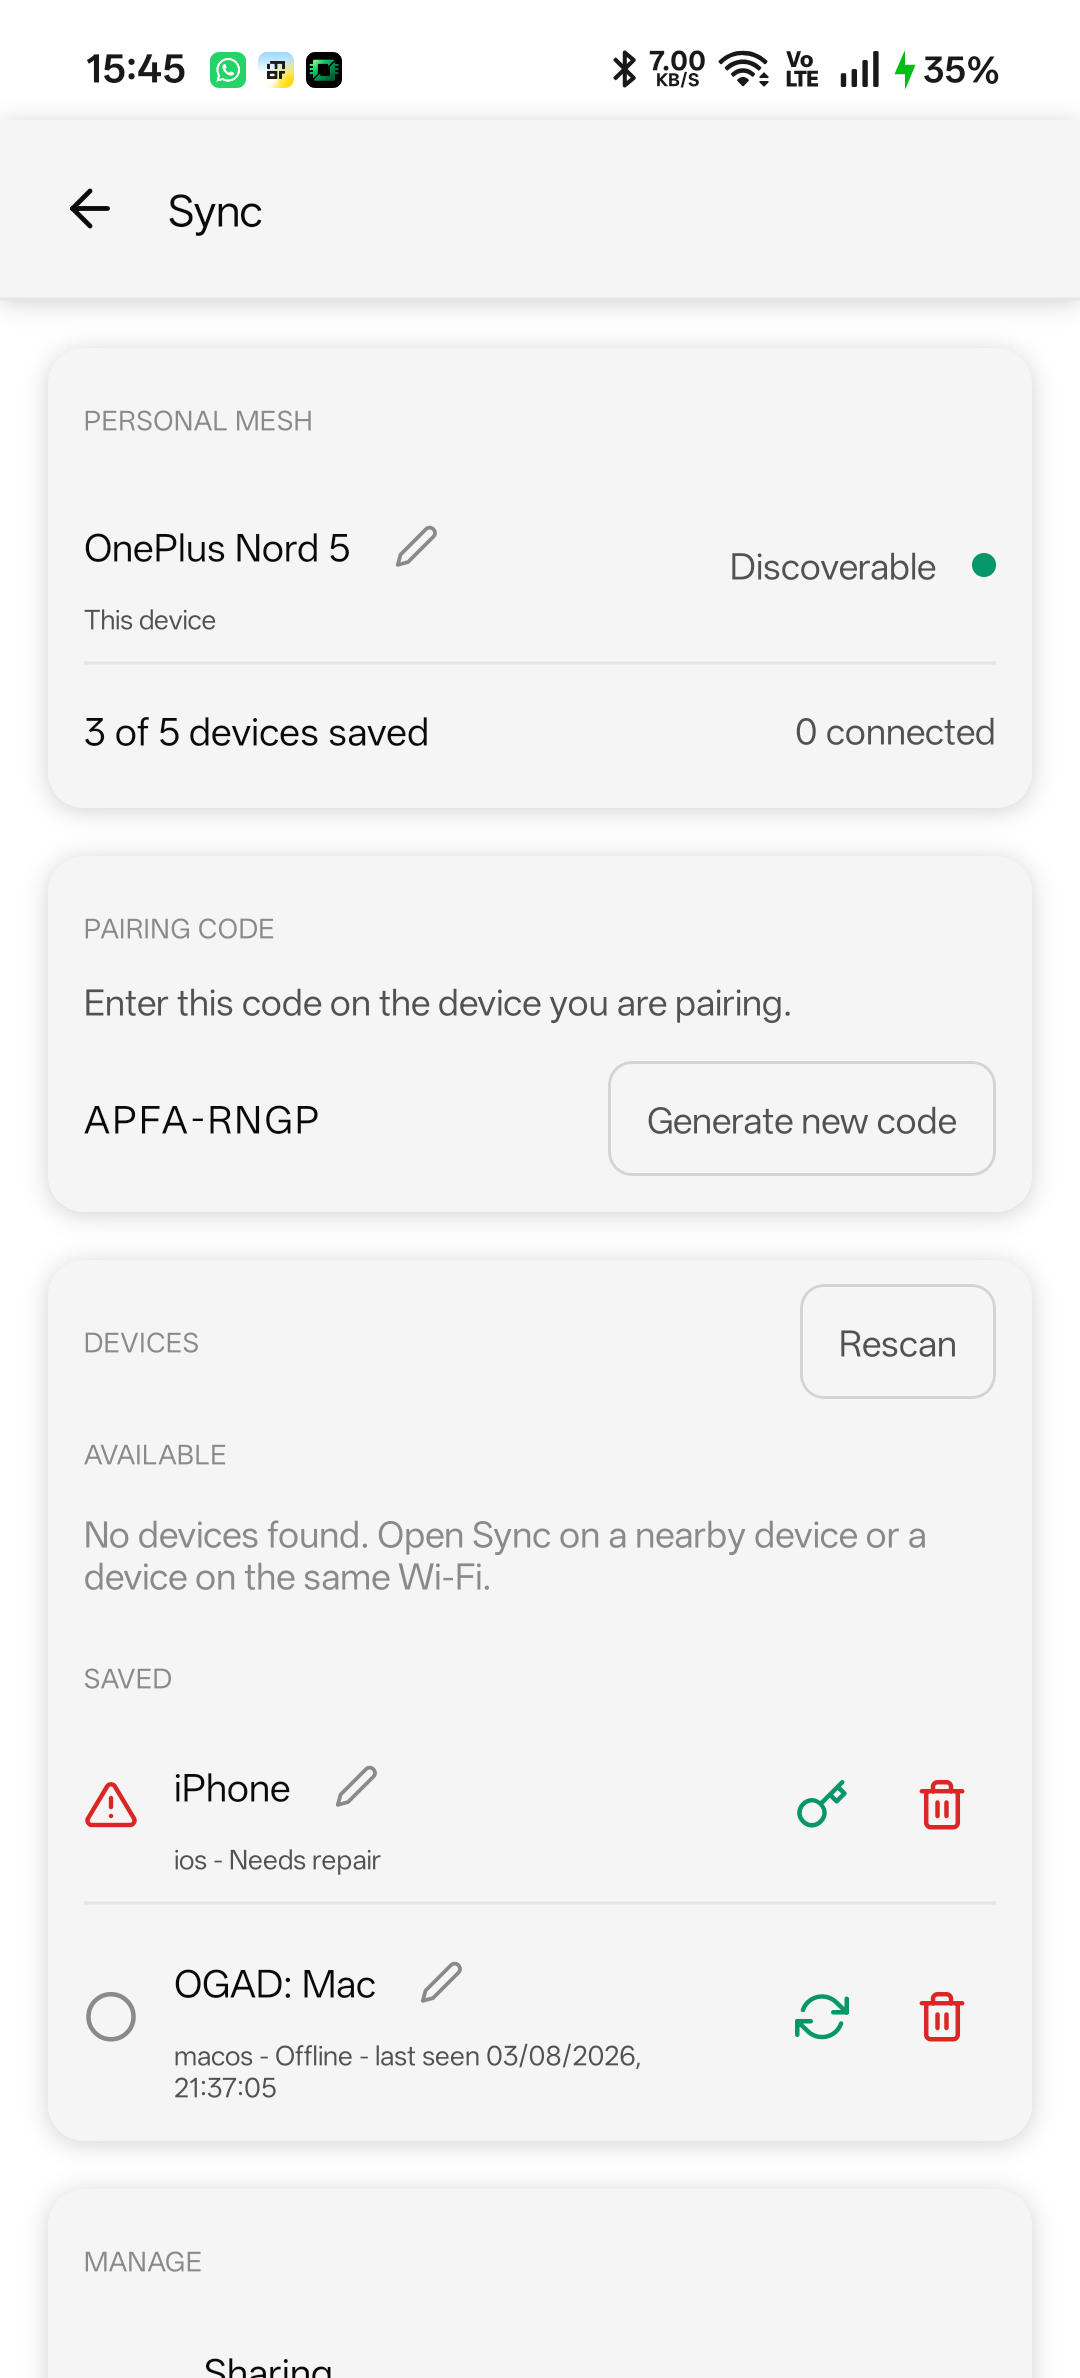
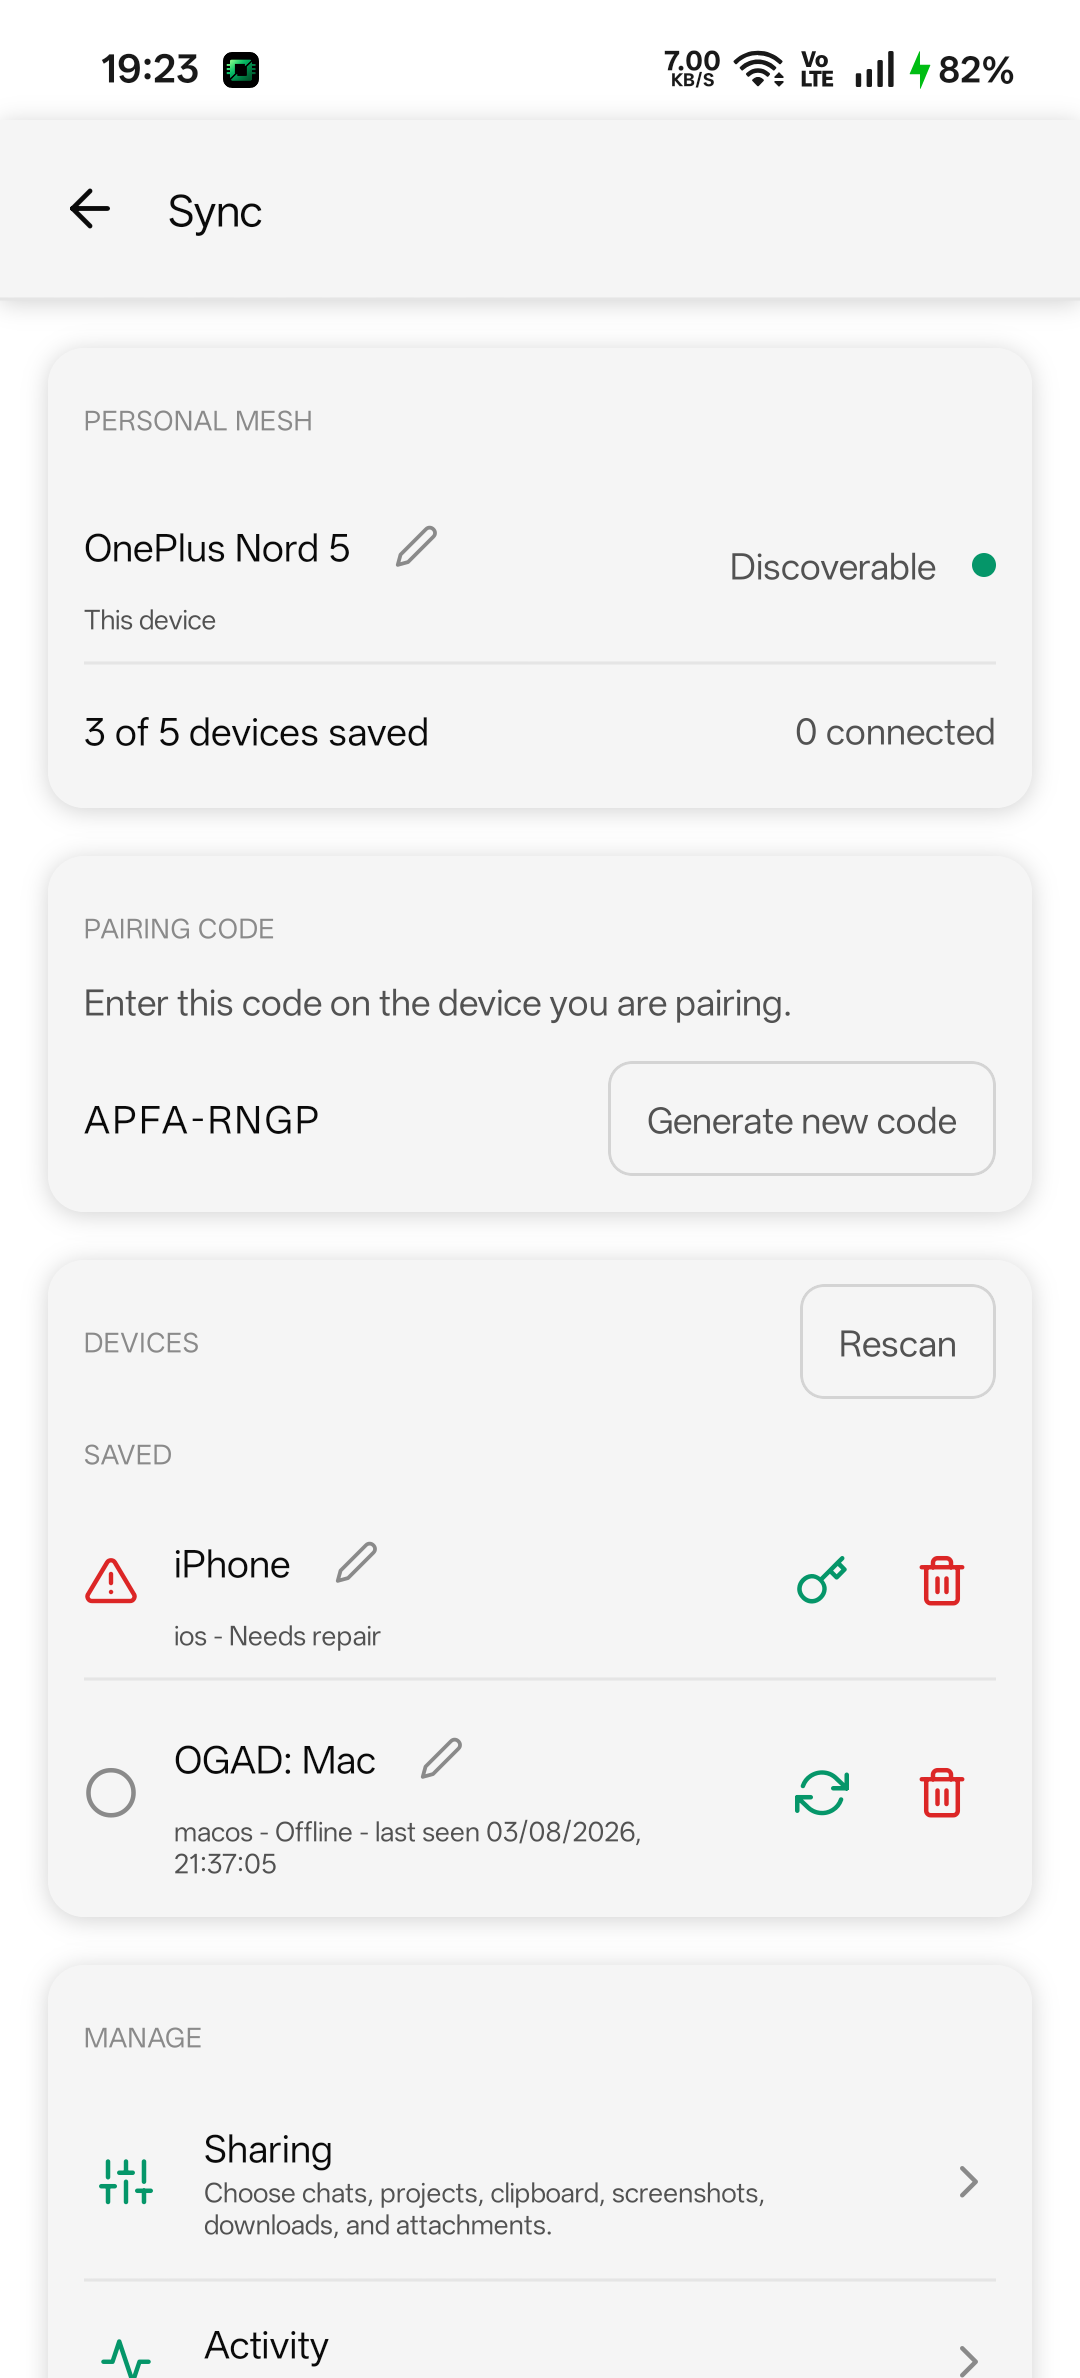
test(sync): licensed fixtures for a Pro-only feature, and the new Available placement
Sync is a Pro feature, so a journey that exercises it runs on a licensed install. The
persistence journey installed a licensed phone in the registry but never set the app's
Pro flag, so the phone correctly resolved as unlicensed and never advertised - every
assertion after that failed for the wrong reason.

The state-sync journey asserted that pairing moves a device OUT of Available, which is
the rule that changed: a reachable device stays there with its saved row, and the Saved
section disappears when it has nothing left rather than captioning blank space.

diff --git a/__tests__/pro/sync/stateSync.integration.test.tsx b/__tests__/pro/sync/stateSync.integration.test.tsx
@@ -269,14 +269,21 @@ describe('Pro mobile state sync journey', () => {
       expect(ui!.getByTestId(`sync-paired-${remoteDevice.id}`)).toBeTruthy(),
     );
 
-    // Pairing moves the device out of AVAILABLE and into SAVED, because AVAILABLE lists only what is NOT saved.
-    // So AVAILABLE is empty again here - and the "no devices found, open Sync on a nearby device" notice must NOT
-    // come back, or the screen tells the user to go and do the thing they have just finished doing, directly above
-    // the device they did it to. It reads as the app failing to see the peer it is holding a pairing with.
+    // The "no devices found, open Sync on a nearby device" notice must NOT come back, or the screen tells the user
+    // to go and do the thing they have just finished doing, directly above the device they did it to. It reads as
+    // the app failing to see the peer it is holding a pairing with.
     expect(ui.queryByTestId('sync-no-devices')).toBeNull();
-    // And the "Available" heading goes with it. A heading over blank space is worse than the notice it replaced -
-    // it reads as a list that failed to load, so the user rescans a mesh that is working.
-    expect(ui.queryByText('Available')).toBeNull();
+    // AVAILABLE now means "on the network right now", saved or not - not "not yet saved". A device you just paired
+    // with is the most available thing on the screen, and burying it under SAVED next to devices that have been off
+    // for weeks made the one you can actually use the hardest to find. So the heading stays, with the device under
+    // it, rendered by the SAVED row template: it keeps disconnect, rename, forget and send-model, which a discovery
+    // row does not have. Offering "Pair" for a device already paired is what moving the row naively would produce.
+    expect(ui.getByText('Available')).toBeTruthy();
+    expect(ui.getByTestId(`sync-paired-${remoteDevice.id}`)).toBeTruthy();
+    // No Saved heading at all here, and that is the point of the split: the only saved device is the one
+    // reachable above, so the Saved section has nothing left and hides itself rather than captioning blank
+    // space. Two headings - one from the reachable group, one from the rest - was the bug this replaced.
+    expect(ui.queryAllByText('Saved')).toHaveLength(0);
 
     fireEvent.press(ui.getByTestId('sync-open-sharing'));
     fireEvent(ui.getByTestId('sync-projects-toggle'), 'valueChange', false);

diff --git a/__tests__/pro/sync/syncPersistence.integration.test.ts b/__tests__/pro/sync/syncPersistence.integration.test.ts
@@ -5,6 +5,7 @@ import type { RnTcpModule } from '@offgrid/sync/rn';
 import { buildSyncEngine } from '../../../src/services/sync/engine';
 import { syncService } from '../../../pro/sync/syncService';
 import { useSyncStore } from '../../../pro/sync/syncStore';
+import { useAppStore } from '../../../src/stores/appStore';
 import {
   getDiscoveryBoundaries,
   resetDiscoveryBoundaries,
@@ -71,6 +72,10 @@ describe('Pro Sync app-lifetime pairing persistence', () => {
     await AsyncStorage.clear();
     useSyncStore.getState().reset();
     resetDiscoveryBoundaries();
+    // Sync is a Pro feature, so a journey that exercises it runs on a licensed install. Without this the
+    // phone resolves as unlicensed and never advertises, which is correct behaviour and makes every
+    // assertion below fail for the wrong reason.
+    useAppStore.getState().setProActive(true);
     // A licensed phone with the fingerprint it actually has: the roster is what saved devices are built
     // from, and two unlicensed devices cannot pair at all.
     secrets = installLicensedPhone(mesh);

diff --git a/__tests__/harness/keygenFake.ts b/__tests__/harness/keygenFake.ts
@@ -18,7 +18,7 @@ import { KEYGEN_API_BASE, KEYGEN_PRODUCT_ID } from '../../src/config/keygen';
 
 export interface KeygenFakeLicence {
   key: string;
-  /** How many installations this licence admits. Two on the free tier, three or more paid. */
+  /** How many installations this licence admits. */
   seats: number;
   expiry?: string | null;
   name?: string | null;

diff --git a/docs/SYNC_INTEGRATION_PLAN.md b/docs/SYNC_INTEGRATION_PLAN.md
@@ -49,5 +49,5 @@ all live in the package, so there is no per-app protocol to keep in sync and no 
   as needing `@offgrid/sync`'s transport wired first).
 
 ## Cross-cutting
-- Pro entitlement gate. Device cap (2 free / 3+ paid) via the package's `cap.ts` + Keygen.
+- Pro entitlement gate. Device cap (Pro-only, 5-device personal mesh) via the package's `cap.ts` + Keygen.
 - Feature code in `pro/`; native modules + injection glue in core (native is app-level).
